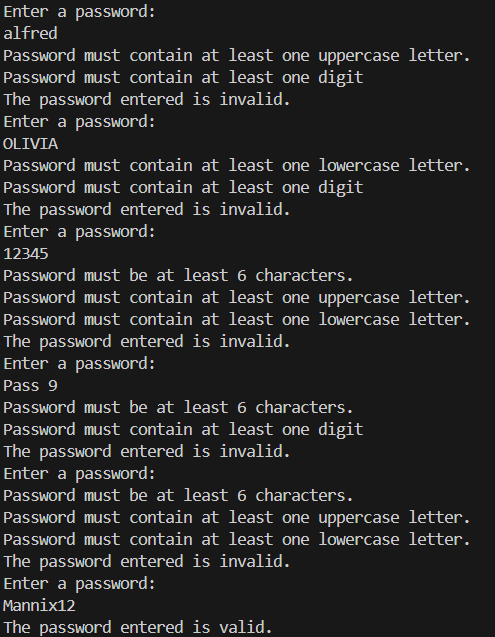
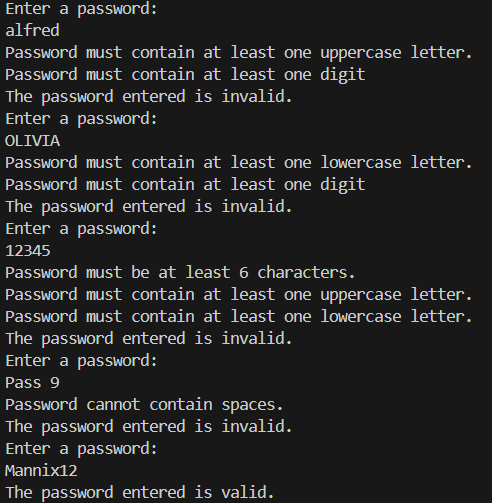
Updated input method to getline

Changed region(s): [[0.0, 0.0, 0.9451, 1.0]]

diff --git a/Module8/Homework8/Project2/hmwk8_proj2.cpp b/Module8/Homework8/Project2/hmwk8_proj2.cpp
@@ -1,11 +1,27 @@
- /* hmwkN_projN.cpp - <simple description>
+ /* hmwkN_projN.cpp - program that checks validity of passwords
  * Author:     Jared Ziv
- * Module:     n
- * Project:    Homework, Part n
- * Problem statement:  <problem statement>
+ * Module:     8
+ * Project:    Homework, Part 2
+ * Problem statement:  Write a program that asks for a password and then calls
+ *      a function which verifies that it meets the stated criteria. Stated
+ *      criteria is listed on homework assignment page.
  *
  * Algorithm:
- *   1.  <detailed algorithm>
+ *   1. Initialize booleans for tracking if string has uppercase, lowercase,
+ *      digits, no spaces and is valid.
+ *   2. Check length of string. If less than 6, print that the string must be
+ *      longer and set valid_string to false.
+ *   3. Iterate through the string. At each character, check if it is upper,
+ *      lower, number, or space. If any are true, set their respective variable
+ *      accordingly.
+ *   4. After iteration is done, check each variable against what they are
+ *      supposed to be. If they are not what they are supposed to be, print an
+ *      error message and set valid_string to false. (i.e. has_upper is false,
+ *      print that you need at least one uppercase character and set valid_string
+ *      to false)
+ *   5. In main, loop while the string is invalid, continuously prompting user
+ *      for input until a valid string is passed (thus resulting in checkPass()
+ *      returning true.)
  */
 #include <iostream>
 #include <string>
@@ -25,7 +41,7 @@ int main()
      * it was rejected, a list of reasons why. I interpreted that as an
      * ordered sequence, where it would print "Password rejected" and
      * THEN the list. I could think of a few ways to implement it (like
-     * maybe using a class?) but the specifications were pretty clear about
+     * using a class?) but the specifications were pretty clear about
      * passing strings and returning true or false so I went the path of
      * least resistance :) If there's any issues with my implementation
      * just let me know and I will fix it.
@@ -36,7 +52,7 @@ int main()
     {
         cout << "Enter a password:" << endl;
         string password;
-        cin >> password; //cin is space delimited so there shouldnt be spaces anyways
+        getline(cin, password);
 
         valid_pass = checkPass(password);
 
